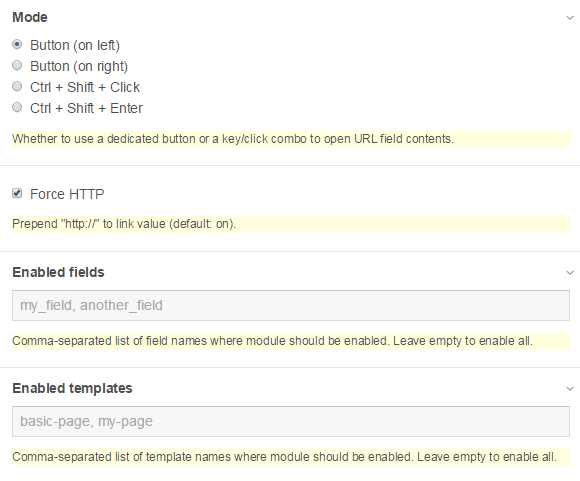
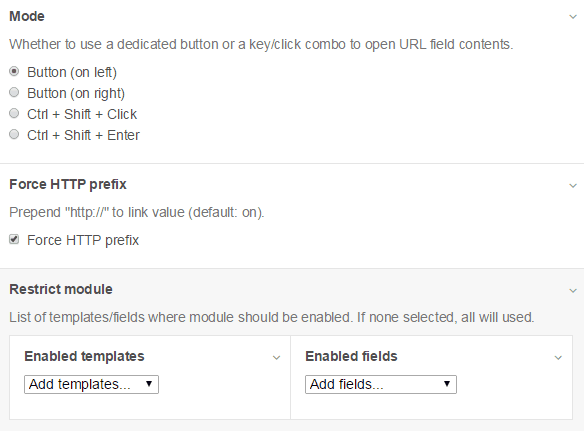
asmSelect field/template selector add placeholder to asmSelect

diff --git a/TestUrlField.js b/TestUrlField.js
@@ -8,6 +8,7 @@ $(document).ready(function () {
     var TUF = {
         parent: '.InputfieldURL',
         selector: 'input:not([type="hidden"])',
+        asmSelectPlaceholder: 'data-asm-placeholder',
         lockedFields: '.collapsed7, .collapsed8',
         TUFlink: '<a href="#" class="tuf-link" target="_blank"><i class="fa fa-arrow-right"></i></a>',
         dummyFieldSelector: 'TUF-dummy',
@@ -18,19 +19,23 @@ $(document).ready(function () {
         template: (config.TUF && config.TUF.template) ? config.TUF.template : false
     };
 
+
+    // stop if template is not among enabled templates
+    // but skip if on own module edit page
+    if ($('form#ModuleEditForm').attr('action') !== 'edit?name=TestUrlField') {
+        if (TUF.enabled_templates && TUF.template) {
+            if (TUF.enabled_templates.indexOf(TUF.template) === -1) {
+                return true;
+            }
+        }
+    }
+
     // get button height with a dummy element
     $('body').append('<input class="' + TUF.dummyFieldSelector + '">');
     TUF.btnHeight = $('.' + TUF.dummyFieldSelector).outerHeight() - 2;
     $('.' + TUF.dummyFieldSelector).remove();
 
     TUF.selector = TUF.parent + ' ' + TUF.selector;
-
-    // continue if template is not among enabled templates
-    if (TUF.enabled_templates && TUF.template) {
-        if (TUF.enabled_templates.indexOf(TUF.template) === -1) {
-            return true;
-        }
-    }
 
     $(document).on('ready reloaded wiretabclick', initTUF);
 
@@ -100,8 +105,10 @@ $(document).ready(function () {
                         var url = getUrl(currInput.val(), TUF.forceHttp),
                             link = currInput.next('.tuf-link');
 
+                        link.attr('href', url);
+
                         if (url) {
-                            link.attr('href', url).removeClass('tuf-hide');
+                            link.removeClass('tuf-hide');
                         } else {
                             link.addClass('tuf-hide')
                         }
@@ -139,9 +146,33 @@ $(document).ready(function () {
             });
         }
     }
+
+
+    /**
+     * Add placeholder to asmSelect
+     */
+    $(function () {
+        $('select[' + TUF.asmSelectPlaceholder + '!=""]').each(function () {
+
+            var placeholder = $(this).data('asmPlaceholder');
+
+            if (placeholder) {
+                $(this).parent().find('.asmSelect').find('option:first').attr('selected', true).attr('disabled', true).text(placeholder);
+            }
+        });
+
+    });
+
 });
 
 
+/**
+ * Get url with or without "http://"
+ *
+ * @param url
+ * @param forcePrefix
+ * @returns {*}
+ */
 function getUrl(url, forcePrefix) {
     var prefix = 'http://';
     return (forcePrefix && url != "" && url.indexOf(prefix) === -1) ? prefix + url : url;

diff --git a/TestUrlField.css b/TestUrlField.css
@@ -17,8 +17,8 @@ body.tuf-left .tuf-link {
 }
 
 .tuf-link i {
-    color: rgba(0, 0, 0, 0.22);
-    text-shadow: 1px 1px 0 rgba(255, 255, 255, 0.5);
+    color: rgba(0, 0, 0, 0.2);
+    text-shadow: 1px 1px 0 rgba(255, 255, 255, 0.4);
     -webkit-transition: color 0.2s;
     -moz-transition: color 0.2s;
     transition: color 0.2s;
@@ -41,11 +41,15 @@ body.tuf-left .InputfieldURL input {
 }
 
 .InputfieldURL input:focus + .tuf-link i {
-    color: rgba(0, 0, 0, 0.36);
+    color: rgba(0, 0, 0, 0.32);
 }
 
 .tuf-link:hover i {
     color: inherit !important;
+}
+
+.tuf-link:active i {
+    font-size: 0.88em !important;
 }
 
 .collapsed7.InputfieldURL .InputfieldContent a:hover,

diff --git a/README.md b/README.md
@@ -5,13 +5,13 @@ Add button to URL fields to test link validity in [ProcessWire CMS](http://proce
 
 ## Features
 
-- adds button to URL fields to test link validity (opens in a new window)
+- add button to URL fields to test link validity (opens in a new window)
 - linkify locked URL fields
 - link visible only if field is not empty
 - compatible with the Default & Reno admin themes
 - button and key/click combo modes
 - force "http://" prefix (optional)
-- limit module to enabled fields only
+- restrict module to selected templates or fields
 - ajax-loaded tabs & fields ready
 
 
@@ -45,8 +45,8 @@ You can choose whether to use a dedicated button or a key/click combo to open UR
 
 The module currently supports three modes:
 
-- Button (on the left): adds a test link button to the left of the URL field (default)
-- Button (on the right): adds a test link button to the right of the URL field
+- Button (on left): adds a test link button to the left of the URL field (default)
+- Button (on right): adds a test link button to the right of the URL field
 - Ctrl + Shift + Click: link can be tested by holding down ctrl+shift and clicking on the field
 - Ctrl + Shift + Enter: link can be tested by holding down ctrl+shift+enter while caret is in the field
 
@@ -54,11 +54,11 @@ The module currently supports three modes:
 
 If checked, links will always have "http://" prefix, even if the field itself doesn't have it.
 
-This ensures opening external links instead of relative ones.
+This option ensures opening external links instead of relative ones.
 
-### Enabled fields/templates
+### Restrict module
 
-Comma-separated list of field/template names where module should be enabled. Leave empty to enable all.
+Here you can set templates and/or fields where the module will be enabled. If none selected, module will be active on all templates and all URL fields.
 
 Note: if used, module will be disabled on all non-listed fields/templates.
 
